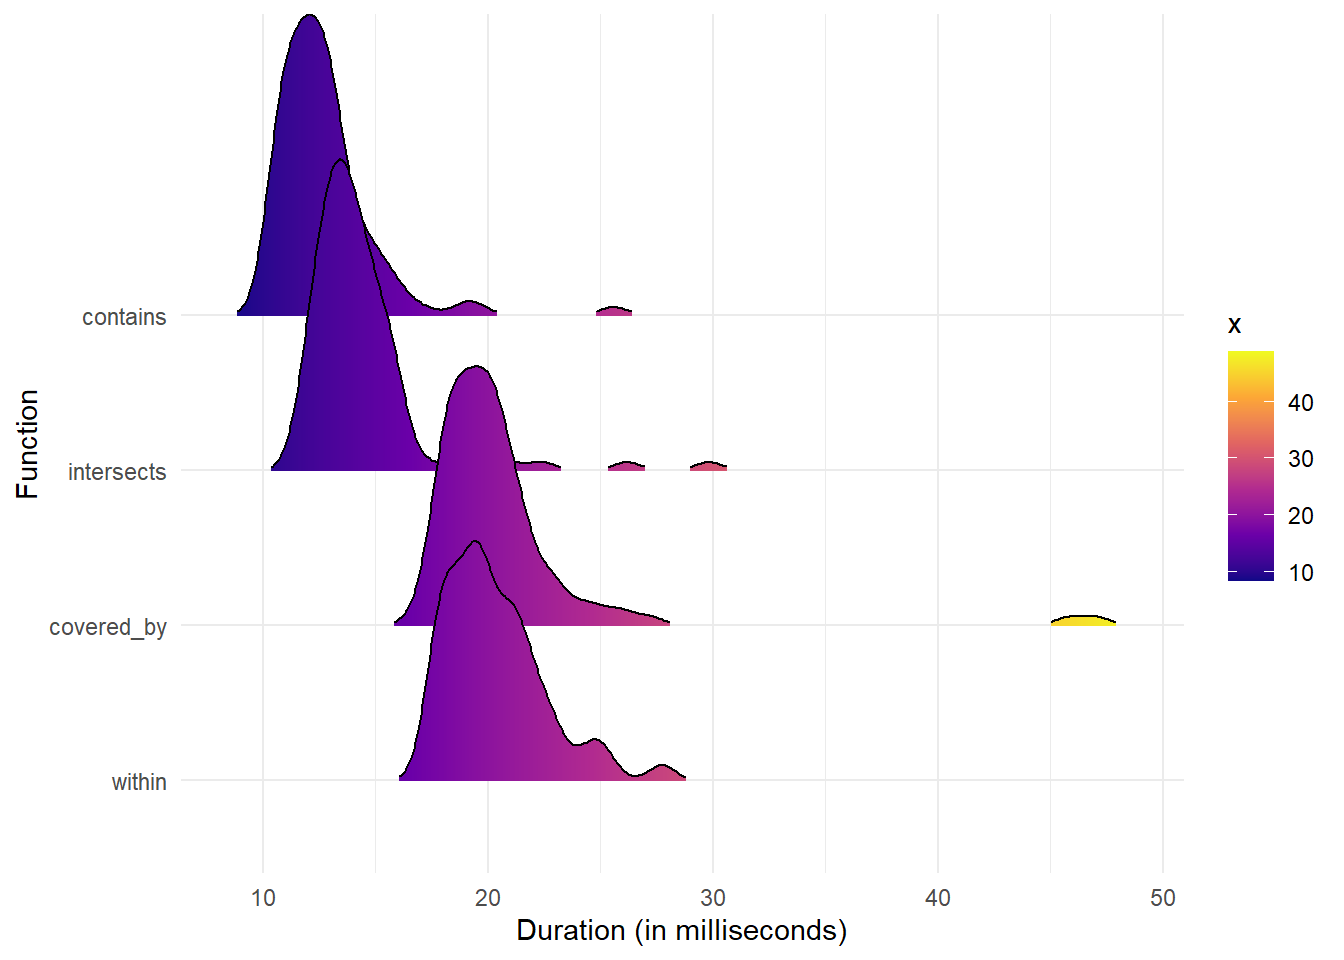
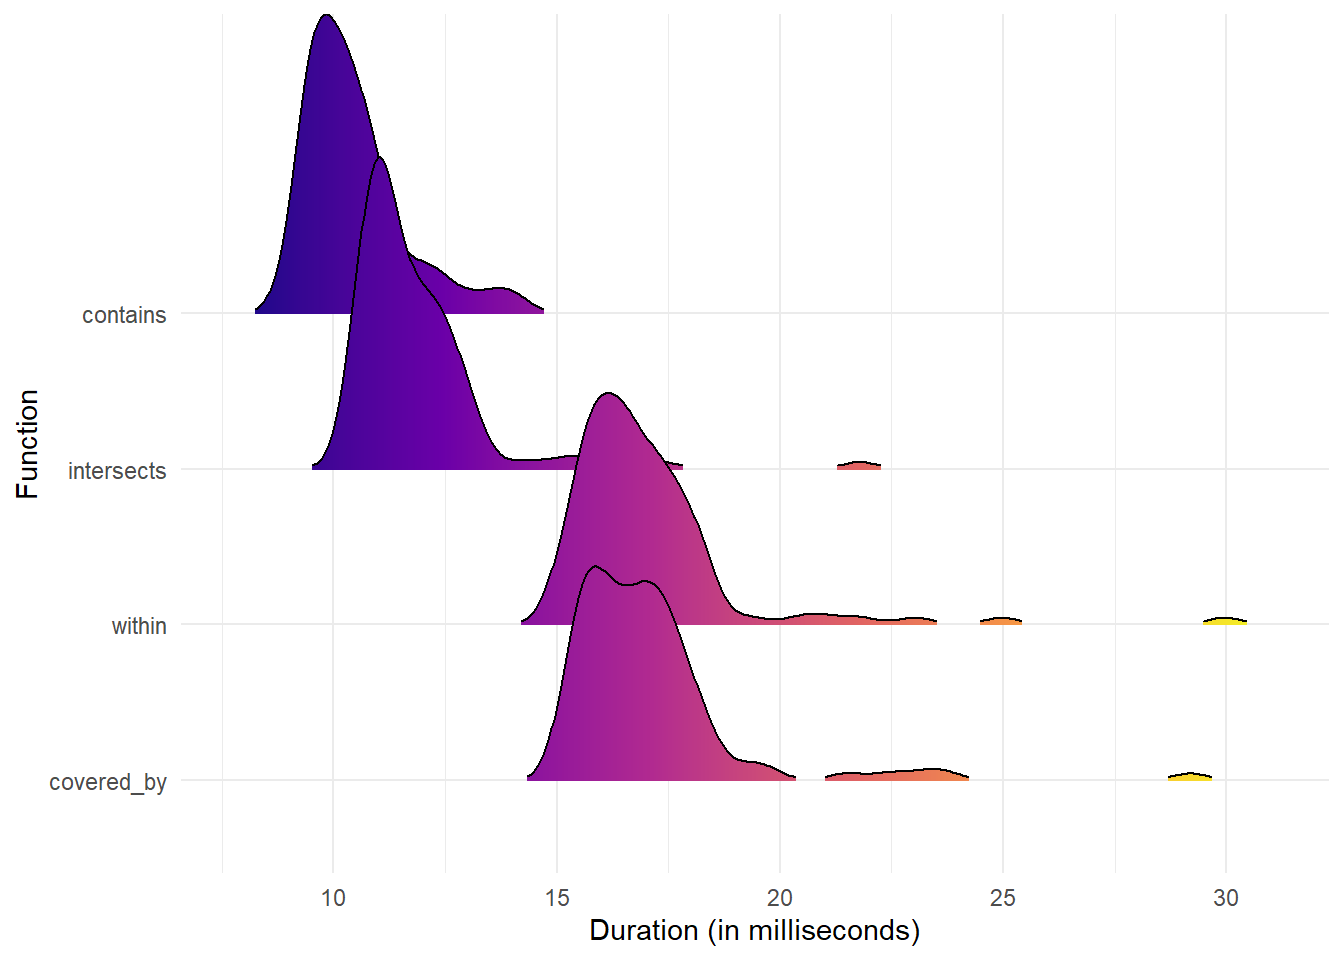
small and minor things

diff --git a/content/post/2019_05_19_benchmarking_binary_predicates.html b/content/post/2019_05_19_benchmarking_binary_predicates.html
@@ -8,6 +8,12 @@ tags: ["GIS", "sf","benchmarking","R"]
 
 
 
+<div id="tldr" class="section level2">
+<h2>TL;DR</h2>
+<p>Say you want to find out whether some spatial points lie in a polygon or not (for example, if you want to filter all train stations located within a state). When using the package <code>sf</code> in <code>R</code>, several function can lead you to the same result. You can use: <code>st_within</code>, <code>st_contains</code>, <code>st_intersects</code> or <code>st_covered_by</code>, and if your dataset is large, speed matters. I wanted to test which function is the fastest and as it turns out, <code>st_contains</code> is the clear winner.</p>
+</div>
+<div id="the-premise" class="section level2">
+<h2>The Premise</h2>
 <p>I had recently needed to filter some 30k Points based on whether they were within a certain polygon or not. It looked something like this:</p>
 <pre class="r"><code>library(sf)
 library(tidyverse)
@@ -23,7 +29,8 @@ ggplot() +
   geom_sf(data = monte_generoso,fill = &quot;red&quot;,alpha = 0.3) + 
   theme_void()</code></pre>
 <p><img src="/post/2019_05_19_benchmarking_binary_predicates_files/figure-html/unnamed-chunk-1-1.png" width="672" /></p>
-<p>My first approach was to use <code>st_within()</code> from my favourite <code>R</code> package <code>sf</code>, but I had to abort the process before it was finished since it took too long. There was not much I could do to optimize the code, so I had to look for alternatives. “<em>Is the point <em>within</em> the polygon?</em>” can also be rephrased to “<em>Does the polygon <em>contain</em> this point?</em>” (using <code>st_contains</code>) and in my case, <code>st_intersects</code> / <code>st_covered_by</code> do the job as well. Note: <code>st_intersects</code> is slightly different to <code>st_within</code> / <code>st_contains</code> / <code>st_covered_by</code>, especially when points are precisely on the line. Also note that dimensions of the resulting matrix vary depending on which operation is used.</p>
+<p>My first approach was to use <code>st_within()</code> from my favourite <code>R</code> package <code>sf</code>, but I had to abort the process before it was finished since it took too long. There was not much I could do to optimize the code, so I had to look for alternatives. “<em>Is the point <em>within</em> the polygon?</em>” can also be rephrased to “<em>Does the polygon <em>contain</em> this point?</em>” (using <code>st_contains</code>) and in my case, <code>st_intersects</code> and <code>st_covered_by</code> do the job as well.</p>
+<p>(Note: <code>st_intersects</code> is slightly different to <code>st_within</code> / <code>st_contains</code> / <code>st_covered_by</code>, especially when points are precisely on the line. Also note that dimensions of the resulting matrix vary depending on which operation is used.)</p>
 <pre class="r"><code>points_filter1 &lt;- points[st_within(points,monte_generoso,sparse = FALSE)[,1]]
 points_filter2 &lt;- points[st_contains(monte_generoso,points,sparse = FALSE)[1,]]
 points_filter3 &lt;- points[st_intersects(points,monte_generoso,sparse = FALSE)[,1]]
@@ -37,7 +44,10 @@ ggplot()  + geom_sf(data = monte_generoso)+ geom_sf(data = points_filter1) + the
 <pre><code>## [1] TRUE</code></pre>
 <pre class="r"><code>identical(points_filter1,points_filter4)</code></pre>
 <pre><code>## [1] TRUE</code></pre>
-<p>I was amazed to find that <code>st_within</code> was much faster than <code>st_contains</code> and so I decided to benchmark all functions with <code>microbenchmark</code>. Since it doesn’t always take the same amount of time to process a function, it makes sense to run each function multiple times (<code>times = 100</code>).</p>
+</div>
+<div id="benchmarking-the-functions" class="section level2">
+<h2>Benchmarking the functions</h2>
+<p>To find out which function does the job fastest, I decided to benchmark all functions with <code>microbenchmark</code>. Since it doesn’t always take the same amount of time to process the same function, it makes sense to run each function multiple times (<code>times = 100</code>).</p>
 <pre class="r"><code>mbm  &lt;- microbenchmark(
   intersects = st_intersects(monte_generoso,points),
   within = st_within(points,monte_generoso),
@@ -48,22 +58,24 @@ ggplot()  + geom_sf(data = monte_generoso)+ geom_sf(data = points_filter1) + the
 
 mbm$time &lt;- microbenchmark:::convert_to_unit(mbm$time,&quot;t&quot;)
 
-mbm &lt;- mbm %&gt;%
+mbm %&gt;%
   mutate(
     expr = fct_reorder(expr,time,median,.desc = TRUE)
-  )
-
-
-ggplot(mbm, aes(time,expr,fill = ..x..)) +
+  ) %&gt;%
+  ggplot(aes(time,expr,fill = ..x..)) +
   geom_density_ridges_gradient(scale = 2, rel_min_height = 0.01) +
   scale_fill_viridis_c(option = &quot;C&quot;)  +
   labs(y = &quot;Function&quot;,x = paste0(&quot;Duration (in &quot;,attr(mbm$time,&quot;unit&quot;),&quot;)&quot;)) +
-  theme(legend.position=&quot;none&quot;) +
-  theme_minimal()</code></pre>
-<pre><code>## Picking joint bandwidth of 0.61</code></pre>
+  theme_minimal() +
+  theme(legend.position=&quot;none&quot;)</code></pre>
+<pre><code>## Picking joint bandwidth of 0.392</code></pre>
 <p><img src="/post/2019_05_19_benchmarking_binary_predicates_files/figure-html/unnamed-chunk-3-1.png" width="672" /></p>
-<p>What we can see in the plot above, is that <code>st_within</code> sometimes took nearly 50ms, but usually around 18ms. This is still slower than both <code>st_contains</code> (around 11ms) and <code>st_within</code> (around 12ms). The question now is, how do the functions scale? Some functions are better on larger datasets than on smaller ones. So I’ll test this by raising the number of points in <code>point</code>.</p>
-<pre class="r"><code>mbm2 &lt;- map_dfr(c(10,100,500,1000,5000,10000),function(n_points){
+<p>What we can see in the plot above, is that <code>st_within</code> and <code>st_covered_by</code> are similar in speed and the slowest of the four functions.</p>
+</div>
+<div id="scalability-raising-the-number-of-points" class="section level2">
+<h2>Scalability: Raising the number of points</h2>
+<p>I ran the function with a thousand points, but but my real life problem had 30’000. So the question is: How do the functions scale? Some functions are better on larger datasets than on smaller ones. So I’ll test this by raising the number of points in <code>point</code>.</p>
+<pre class="r"><code>mbm2 &lt;- map_dfr(c(5e3,1e4,2e4),function(n_points){
   
   points &lt;- st_sample(st_buffer(monte_generoso,1000),n_points,what = &quot;centers&quot;)
 
@@ -77,98 +89,22 @@ ggplot(mbm, aes(time,expr,fill = ..x..)) +
   as.data.frame(mbm) %&gt;%
     mutate(n = n_points)
 })</code></pre>
-<p>Since I now have a new dimension in my data (number of points) don’t want to use the violin plot from above, but make my plot more compact using a line plot. In order to also visualize the distribution of the data, I add a line range indicating the 1. and 3. Quartiles.</p>
+<p>Apparently, <code>st_contains</code> is still the fastest function of all four, as you can see in the plot below. So the take home message for me: use <code>st_contains</code> when you can!</p>
 <pre class="r"><code>mbm2$time &lt;- microbenchmark:::convert_to_unit(mbm2$time,&quot;t&quot;)
 
 
+
 mbm2 %&gt;%
-  group_by(expr,n) %&gt;%
-  summarise(
-    median = median(time),
-    q25 = quantile(time,0.25),
-    q75 = quantile(time,0.75)
-  ) %&gt;%
-ggplot(aes(n,median, colour = expr)) +
-  geom_line() +
-  geom_pointrange(aes(ymin = q25,ymax = q75)) +
-  labs(x = &quot;# data points&quot;,y = paste0(&quot;Duration (in &quot;,attr(mbm2$time,&quot;unit&quot;),&quot;)&quot;), colour = &quot;Binary Predicate Operation&quot;) +
-  expand_limits(y = 0) +
+  mutate(
+    n = fct_reorder(formatC(n,big.mark = &quot;&#39;&quot;,format = &quot;fg&quot;),n),
+    expr = fct_reorder(expr,time,median,.desc = TRUE)
+    ) %&gt;%
+  ggplot(aes(time,expr,fill = n)) +
+  geom_density_ridges_gradient(rel_min_height = 0.01) +
+  scale_fill_manual(name = &quot;Number of points&quot;, values = RColorBrewer::brewer.pal(3, &quot;YlOrRd&quot;)) +
+  labs(y = &quot;Function&quot;,x = paste0(&quot;Duration (in &quot;,attr(mbm$time,&quot;unit&quot;),&quot;)&quot;)) +
   theme_minimal() +
-  theme(legend.position = &quot;bottom&quot;) </code></pre>
+  theme(legend.position = &quot;bottom&quot;)</code></pre>
+<pre><code>## Picking joint bandwidth of 1.85</code></pre>
 <p><img src="/post/2019_05_19_benchmarking_binary_predicates_files/figure-html/unnamed-chunk-5-1.png" width="672" /></p>
-<p>It’s still the case that <code>st_within</code> is slower by along run, and additionally seems to scale non-linearly. I’m giving <code>st_within</code> one more chance to pull itself together and prove it’s worth by raising the number of <em>circles</em> (polygons) that I’m querying with:</p>
-<pre class="r"><code>mbm3 &lt;- map_dfr(c(1,5,20,100,500),function(n_circles){
-  
-  points &lt;- st_sample(st_buffer(monte_generoso,1000),1000,what = &quot;centers&quot;)
-  circles &lt;-   st_sample(st_buffer(monte_generoso,1000),n_circles,what = &quot;centers&quot;) %&gt;%
-    st_buffer(500)
-
-  mbm  &lt;- microbenchmark(
-  intersects = st_intersects(monte_generoso,points),
-  within = st_within(points,monte_generoso),
-  contains = st_contains(monte_generoso,points),
-  covered_by = st_covered_by(points,monte_generoso),
-  times = 10
-  )
-  as.data.frame(mbm) %&gt;%
-    mutate(n = n_circles)
-})
-
-mbm3$time &lt;- microbenchmark:::convert_to_unit(mbm3$time,&quot;t&quot;)
-
-
-mbm3 %&gt;%
-  group_by(expr,n) %&gt;%
-  summarise(
-    median = median(time),
-    q25 = quantile(time,0.25),
-    q75 = quantile(time,0.75)
-  ) %&gt;%
-ggplot(aes(n,median, colour = expr)) +
-  geom_line() +
-  geom_pointrange(aes(ymin = q25,ymax = q75)) +
-  labs(x = &quot;# data circles&quot;,y = paste0(&quot;Duration (in &quot;,attr(mbm3$time,&quot;unit&quot;),&quot;)&quot;), colour = &quot;Binary Predicate Operation&quot;) +
-  expand_limits(y = 0) +
-  theme_minimal() +
-  theme(legend.position = &quot;bottom&quot;) </code></pre>
-<p><img src="/post/2019_05_19_benchmarking_binary_predicates_files/figure-html/unnamed-chunk-6-1.png" width="672" /></p>
-<p>Nope.. still too slow by a long way. Unexpected for me however, is the fact that the number of polygons does not slow the process. Take home message: use <code>st_contains</code> when you can.</p>
-<p>[][(<a href="https://i.makeagif.com/media/6-06-2018/BOq_ui.gif" class="uri">https://i.makeagif.com/media/6-06-2018/BOq_ui.gif</a>)</p>
-<pre class="r"><code>sessionInfo()</code></pre>
-<pre><code>## R version 3.6.0 (2019-04-26)
-## Platform: x86_64-w64-mingw32/x64 (64-bit)
-## Running under: Windows 10 x64 (build 18363)
-## 
-## Matrix products: default
-## 
-## locale:
-## [1] LC_COLLATE=German_Switzerland.1252  LC_CTYPE=German_Switzerland.1252   
-## [3] LC_MONETARY=German_Switzerland.1252 LC_NUMERIC=C                       
-## [5] LC_TIME=German_Switzerland.1252    
-## 
-## attached base packages:
-## [1] stats     graphics  grDevices utils     datasets  methods   base     
-## 
-## other attached packages:
-##  [1] ggridges_0.5.2       cowplot_1.0.0        microbenchmark_1.4-7
-##  [4] forcats_0.4.0        stringr_1.4.0        dplyr_0.8.3         
-##  [7] purrr_0.3.3          readr_1.3.1          tidyr_1.0.2         
-## [10] tibble_2.1.3         ggplot2_3.3.0        tidyverse_1.3.0     
-## [13] sf_0.9-0            
-## 
-## loaded via a namespace (and not attached):
-##  [1] Rcpp_1.0.2         lubridate_1.7.4    lattice_0.20-38    class_7.3-15      
-##  [5] assertthat_0.2.1   digest_0.6.20      R6_2.4.0           cellranger_1.1.0  
-##  [9] plyr_1.8.4         backports_1.1.4    reprex_0.3.0       evaluate_0.14     
-## [13] e1071_1.7-2        httr_1.4.1         blogdown_0.17.1    pillar_1.4.2      
-## [17] rlang_0.4.5        readxl_1.3.1       rstudioapi_0.10    rmarkdown_2.1     
-## [21] labeling_0.3       munsell_0.5.0      broom_0.5.2        compiler_3.6.0    
-## [25] modelr_0.1.5       xfun_0.12          pkgconfig_2.0.2    htmltools_0.3.6   
-## [29] tidyselect_0.2.5   bookdown_0.14      viridisLite_0.3.0  crayon_1.3.4      
-## [33] dbplyr_1.4.2       withr_2.1.2        grid_3.6.0         nlme_3.1-141      
-## [37] jsonlite_1.6       gtable_0.3.0       lifecycle_0.1.0    DBI_1.0.0         
-## [41] magrittr_1.5       units_0.6-3        scales_1.0.0       KernSmooth_2.23-15
-## [45] cli_1.1.0          stringi_1.4.3      fs_1.3.1           xml2_1.2.4        
-## [49] ellipsis_0.3.0     vctrs_0.2.4        generics_0.0.2     tools_3.6.0       
-## [53] glue_1.3.1         hms_0.5.3          yaml_2.2.0         colorspace_1.4-1  
-## [57] classInt_0.4-1     rvest_0.3.5        knitr_1.28         haven_2.2.0</code></pre>
+</div>

diff --git a/content/post/2020_02_29_Raumzeit/2020_02_29_Raumzeit_Analysis.html b/content/post/2020_02_29_Raumzeit/2020_02_29_Raumzeit_Analysis.html
@@ -10,7 +10,7 @@ tags: ["podcast","R"]
 
 <pre class="r"><code>library(tidyverse)
 ## Warning: Paket &#39;tidyverse&#39; wurde unter R Version 3.6.3 erstellt
-## -- Attaching packages --------------------------------------------------------------------------------------------------------------------------------- tidyverse 1.3.0 --
+## -- Attaching packages -------------------------------------------------------------------------------------------------------------------------------- tidyverse 1.3.0 --
 ## v ggplot2 3.3.0     v purrr   0.3.3
 ## v tibble  2.1.3     v dplyr   0.8.3
 ## v tidyr   1.0.2     v stringr 1.4.0
@@ -18,7 +18,7 @@ tags: ["podcast","R"]
 ## Warning: Paket &#39;tidyr&#39; wurde unter R Version 3.6.3 erstellt
 ## Warning: Paket &#39;purrr&#39; wurde unter R Version 3.6.3 erstellt
 ## Warning: Paket &#39;dplyr&#39; wurde unter R Version 3.6.1 erstellt
-## -- Conflicts ------------------------------------------------------------------------------------------------------------------------------------ tidyverse_conflicts() --
+## -- Conflicts ----------------------------------------------------------------------------------------------------------------------------------- tidyverse_conflicts() --
 ## x dplyr::filter() masks stats::filter()
 ## x dplyr::lag()    masks stats::lag()
 library(ggrepel)

diff --git a/content/post/2020_04_04_Optimizing_RStudio_Viewer.html b/content/post/2020_04_04_Optimizing_RStudio_Viewer.html
@@ -38,7 +38,7 @@ nc &lt;- read_sf(system.file(&quot;shape/nc.shp&quot;, package=&quot;sf&quot;))[
 <pre class="r"><code>plot</code></pre>
 <pre><code>## function (x, y, ...) 
 ## UseMethod(&quot;plot&quot;)
-## &lt;bytecode: 0x00000000071fb538&gt;
+## &lt;bytecode: 0x000000000a6bb780&gt;
 ## &lt;environment: namespace:graphics&gt;</code></pre>
 <p>We can turn <code>View</code> into a generic with <code>UseMethod()</code>:</p>
 <p>(Hadley states in his book that writing a method is considered “exceedingly bad manners” if you don’t own the generic or the class. But since I doing all this in my own, private R-Session this is probably OK)</p>
